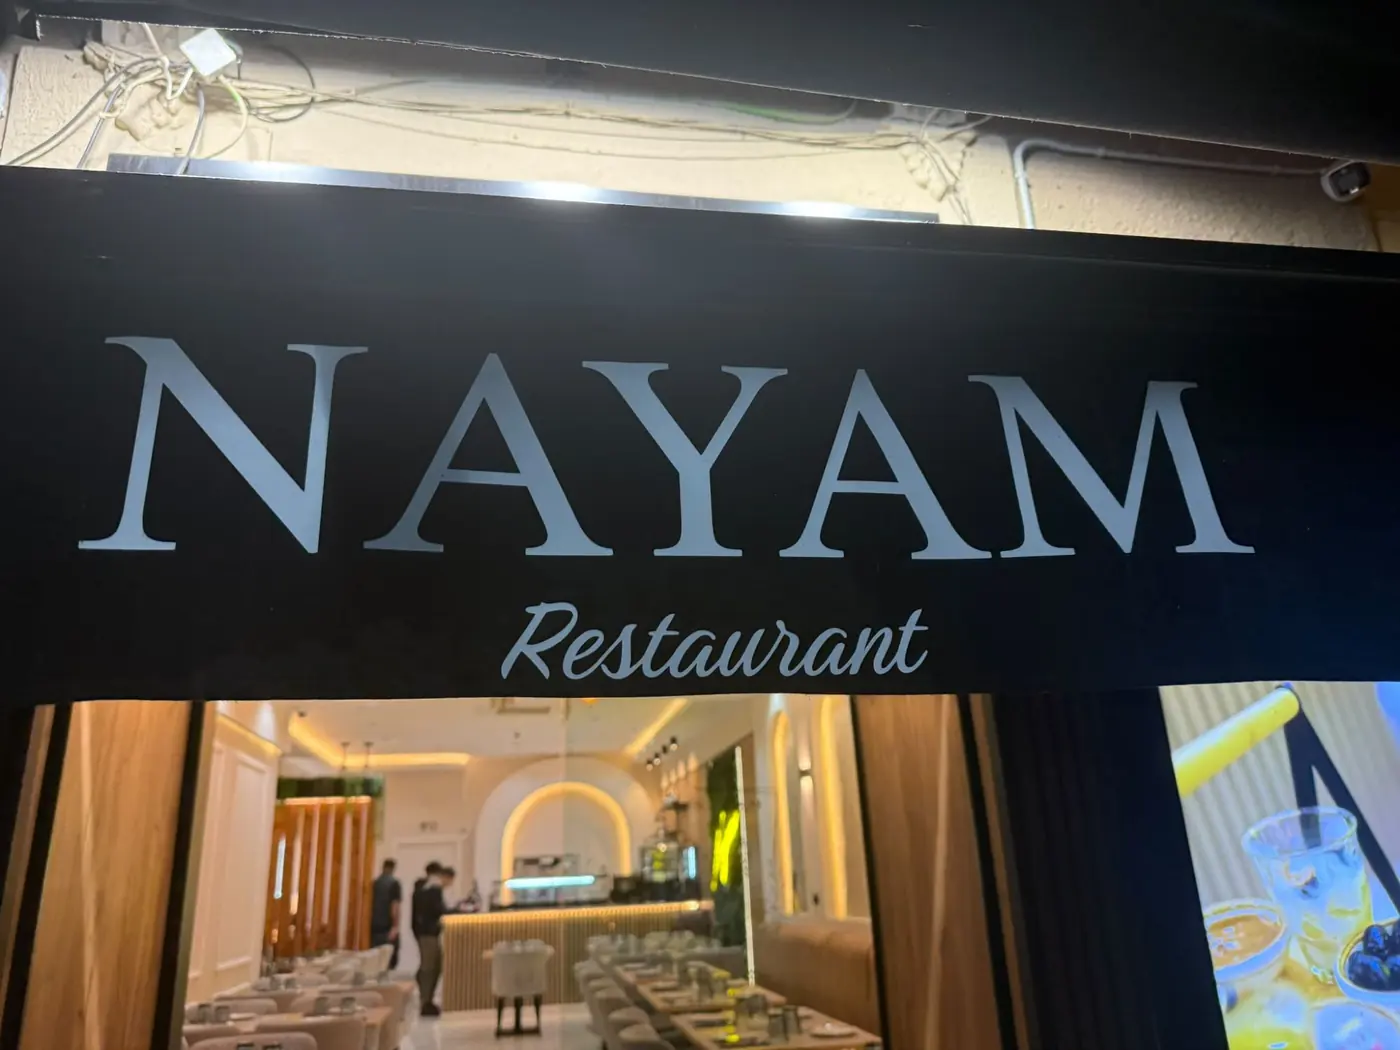
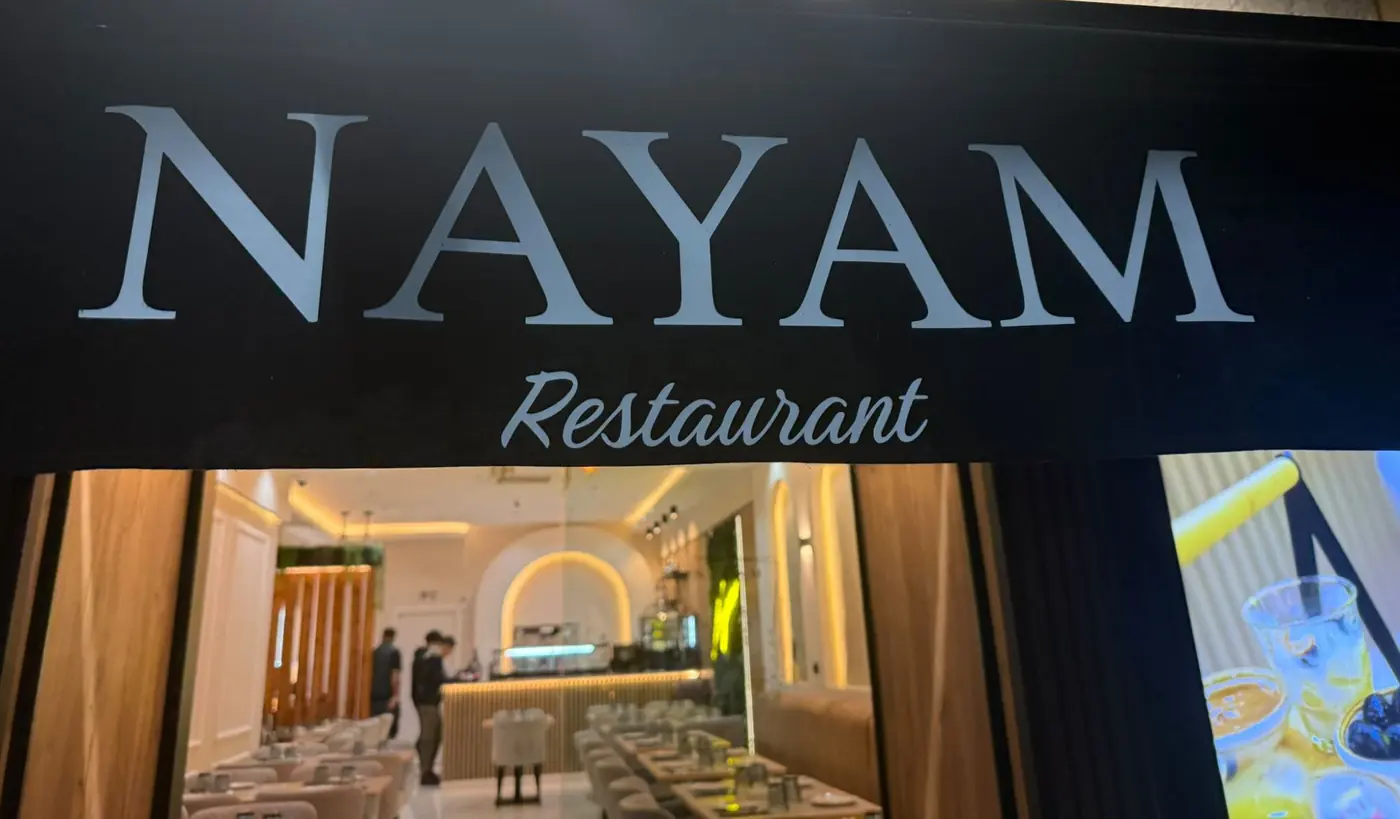
Quita el vídeo de la portada, recoloca la sección de vídeos y revisa las fotos propias
- Portada vuelve al pase de fotos
- Vídeos: clip grande a la izquierda y miniaturas, botón y nota a la derecha
- Foto de la fachada recortada (sin cables) y foto de la sala retirada
- Galería del local en mosaico

Claude-Session: https://claude.ai/code/session_017RZvcEEU2GJ9wD2SCQ5GfH

diff --git a/css/styles.css b/css/styles.css
@@ -168,9 +168,9 @@ svg.i{width:1.25em;height:1.25em;fill:none;stroke:currentColor;stroke-width:1.7;
 .room .wide{grid-column:1/-1;aspect-ratio:16/10}
 @media(min-width:900px){
   .about{grid-template-columns:1fr 1fr;align-items:end}
-  .room{grid-template-columns:repeat(4,1fr)}
-  .room figure{aspect-ratio:3/4}
-  .room .wide{grid-column:span 2;grid-row:span 1;aspect-ratio:auto}
+  .room{grid-template-columns:repeat(4,1fr);grid-auto-rows:260px}
+  .room figure{aspect-ratio:auto}
+  .room .wide{grid-column:span 2;grid-row:span 2;aspect-ratio:auto}
 }
 
 /* booking */
@@ -201,7 +201,7 @@ label.f{display:flex;flex-direction:column;gap:.35rem;font-size:.82rem;font-weig
 .hours th{text-align:left;font-weight:500;padding:.55rem 0;border-bottom:1px solid var(--line)}
 .hours td{text-align:right;padding:.55rem 0;border-bottom:1px solid var(--line);color:var(--muted)}
 .hours tr.today th,.hours tr.today td{color:var(--fg);font-weight:700}
-.facade{border-radius:16px;overflow:hidden;aspect-ratio:4/3}
+.facade{border-radius:16px;overflow:hidden;aspect-ratio:16/10}
 .facade img{width:100%;height:100%;object-fit:cover}
 .rowbtn{display:flex;flex-wrap:wrap;gap:.6rem}
 
@@ -233,11 +233,12 @@ footer small{color:var(--muted)}
 
 /* TikTok: vídeo grande reproduciéndose y miniaturas al lado */
 .ttwrap{display:grid;gap:1.1rem;grid-template-columns:1fr;justify-items:center}
-.ttmain{width:min(100%,340px);display:flex;flex-direction:column;gap:.7rem}
+.ttmain{width:min(100%,360px);display:flex;flex-direction:column;gap:.7rem}
 .ttframe{position:relative;aspect-ratio:9/16;border-radius:22px;overflow:hidden;background:#000;box-shadow:var(--shadow)}
 .ttframe video{position:absolute;inset:0;width:100%;height:100%;object-fit:cover;background:#000;cursor:pointer;display:block}
 .ttcap{margin:0;font-weight:700;line-height:1.3}
 .ttcap small{display:block;color:var(--muted);font-weight:400;margin-top:.15rem}
+.ttside{display:flex;flex-direction:column;gap:1rem;width:100%;min-width:0}
 .ttlist{display:flex;gap:.6rem;overflow-x:auto;scroll-snap-type:x proximity;padding-block:.2rem .6rem;width:100%;scrollbar-width:thin}
 .ttthumb{flex:none;width:92px;aspect-ratio:9/16;border-radius:14px;overflow:hidden;position:relative;padding:0;border:2px solid transparent;background:#000;scroll-snap-align:start;color:var(--hero-fg)}
 .ttthumb img{width:100%;height:100%;object-fit:cover;display:block;opacity:.8;transition:opacity .2s}
@@ -248,8 +249,9 @@ footer small{color:var(--muted)}
 .ttthumb[aria-current="true"] .ttico{display:none}
 .ttthumb .ttviews{position:absolute;left:0;right:0;bottom:0;padding:1rem .4rem .35rem;font-size:.7rem;font-weight:700;text-align:center;background:linear-gradient(transparent,rgba(0,0,0,.8))}
 @media(min-width:900px){
-  .ttwrap{grid-template-columns:340px 1fr;justify-items:stretch;align-items:start;gap:1.6rem}
-  .ttlist{display:grid;grid-template-columns:repeat(4,1fr);overflow:visible;gap:.8rem;align-content:start}
+  .ttwrap{grid-template-columns:min(360px,calc((100vh - 190px)*9/16)) 1fr;justify-items:stretch;align-items:start;gap:2rem}
+  .ttmain{width:100%}
+  .ttlist{display:grid;grid-template-columns:repeat(auto-fill,minmax(104px,1fr));overflow:visible;gap:.7rem;align-content:start;padding-block:0}
   .ttthumb{width:100%;cursor:pointer}
 }
 .tt-cta{margin-top:1.4rem}
@@ -307,20 +309,6 @@ footer .legal .credit b{color:var(--fg);font-weight:700}
 .ttbar i{display:block;height:100%;width:0;background:var(--accent)}
 .ttlink{font-size:.88rem;color:var(--accent-text);font-weight:700;text-decoration:none}
 .ttlink:hover{text-decoration:underline}
-
-/* portada con vídeo: de fondo en móvil, tarjeta vertical en ordenador */
-.heromedia{position:absolute;inset:0;z-index:-2;opacity:0;transition:opacity .9s ease;pointer-events:none}
-.heromedia.on{opacity:1}
-.heromedia video{position:absolute;inset:0;width:100%;height:100%;object-fit:cover;background:#000}
-.herop{position:absolute;right:max(16px,env(safe-area-inset-right,0px));bottom:84px;z-index:3;width:44px;height:44px;border-radius:50%;border:0;background:rgba(0,0,0,.55);color:#fff;display:grid;place-items:center;cursor:pointer;pointer-events:auto;-webkit-backdrop-filter:blur(6px);backdrop-filter:blur(6px)}
-.hero.vid::after{background:linear-gradient(180deg,rgba(11,16,12,.6) 0%,rgba(11,16,12,.55) 50%,rgba(11,16,12,.78) 88%,var(--bg) 100%)}
-@media(min-width:900px){
-  .heromedia{inset:auto;top:50%;right:max(16px,calc((100% - 1160px)/2 + 16px));width:var(--cw);aspect-ratio:9/16;transform:translateY(-50%);z-index:1;opacity:1;border-radius:28px;overflow:hidden;box-shadow:0 24px 60px rgba(0,0,0,.5);border:1px solid rgba(246,240,228,.2)}
-  .hero{--cw:clamp(240px,24vw,300px)}
-  .herop{right:calc(max(16px,(100% - 1160px)/2 + 16px) + 12px);bottom:auto;top:calc(50% + var(--cw)*8/9 - 56px)}
-  .hero .wrap{min-height:clamp(700px,88vh,840px);justify-content:center}
-  .hero.vid::after{background:linear-gradient(180deg,rgba(11,16,12,.55) 0%,rgba(11,16,12,.5) 50%,rgba(11,16,12,.72) 88%,var(--bg) 100%)}
-}
 
 /* franja de cifras */
 .stats{margin-top:-58px;position:relative;z-index:2}

diff --git a/js/i18n.js b/js/i18n.js
@@ -1,7 +1,7 @@
 /* Textos de la web en español (es) e inglés (en). */
 (function (w) {
 const T = {
- es:{heroPause:'Pausar vídeo de portada',heroPlay:'Reproducir vídeo de portada',gpEyebrow:'Desde Google',gpTitle:'Lo que suben nuestros clientes',gpLead:'Fotos reales de platos y del local, publicadas por quienes nos visitan.',gpAll:'Ver todas las fotos en Google',gpNote:'Fotos publicadas por clientes en Google Maps.',rights:'Todos los derechos reservados.',ttEyebrow:'En TikTok',ttTitle:'Mira lo que pasa en Nayam',ttLead:'Visitas, platos y detrás de cámaras, directo desde nuestro TikTok. Toca un vídeo para verlo en grande.',ttFollow:'Síguenos en TikTok',ttNote:'Los vídeos empiezan sin sonido: toca el altavoz para activarlo y el vídeo para pausarlo.',ttMute:'Silenciar',ttUnmute:'Activar sonido',ttPause:'Pausar',ttOpen:'Ver este vídeo en TikTok',ttPlay:'Ver vídeo',ttViews:'visualizaciones',
+ es:{gpEyebrow:'Desde Google',gpTitle:'Lo que suben nuestros clientes',gpLead:'Fotos reales de platos y del local, publicadas por quienes nos visitan.',gpAll:'Ver todas las fotos en Google',gpNote:'Fotos publicadas por clientes en Google Maps.',rights:'Todos los derechos reservados.',ttEyebrow:'En TikTok',ttTitle:'Mira lo que pasa en Nayam',ttLead:'Visitas, platos y detrás de cámaras, directo desde nuestro TikTok. Toca un vídeo para verlo en grande.',ttFollow:'Síguenos en TikTok',ttNote:'Los vídeos empiezan sin sonido: toca el altavoz para activarlo y el vídeo para pausarlo.',ttMute:'Silenciar',ttUnmute:'Activar sonido',ttPause:'Pausar',ttOpen:'Ver este vídeo en TikTok',ttPlay:'Ver vídeo',ttViews:'visualizaciones',
   nav:[['#carta','Carta'],['#tiktok','TikTok'],['#resenas','Reseñas'],['#local','El local'],['#reservas','Reservas'],['#contacto','Contacto']],
   book:'Reservar',bookLong:'Reservar por WhatsApp',seeMenu:'Ver la carta',
   h1:'El brunch que Poblenou estaba esperando',lead:'Desayunos de aquí y del mundo, brunch, comidas y cenas. Cocina casera, todo el día, en el corazón de Sant Martí.',rating:'4,8 en Google',
@@ -22,7 +22,7 @@ const T = {
   altHero:'Comedor de Nayam con banqueta caramelo, mesas puestas y neón al fondo',altBreak:'Desayuno especial para dos en Nayam',altDish:'Plato de carne gourmet en Nayam',altCafe:'Interior del restaurante Nayam',
   altSala:'Sala de Nayam con mesas de madera y butacas de terciopelo',altArcos:'Nichos en arco con luz cálida y planta tropical',altAmb:'Ambiente acogedor en Nayam',altNeon:'Neón de Nayam sobre muro vegetal',altInt:'Banqueta y mesas largas en Nayam',altPizza:'Pizza cuatro quesos',altFacade:'Fachada de Nayam Restaurante de noche',
   close:'Cerrar'},
- en:{heroPause:'Pause cover video',heroPlay:'Play cover video',gpEyebrow:'From Google',gpTitle:'What our guests share',gpLead:'Real photos of dishes and the room, posted by the people who visit us.',gpAll:'See all photos on Google',gpNote:'Photos posted by guests on Google Maps.',rights:'All rights reserved.',ttEyebrow:'On TikTok',ttTitle:'See what happens at Nayam',ttLead:'Visits, dishes and behind the scenes, straight from our TikTok. Tap a video to watch it big.',ttFollow:'Follow us on TikTok',ttNote:'Videos start muted: tap the speaker for sound and the video to pause it.',ttMute:'Mute',ttUnmute:'Turn sound on',ttPause:'Pause',ttOpen:'Watch this video on TikTok',ttPlay:'Play video',ttViews:'views',
+ en:{gpEyebrow:'From Google',gpTitle:'What our guests share',gpLead:'Real photos of dishes and the room, posted by the people who visit us.',gpAll:'See all photos on Google',gpNote:'Photos posted by guests on Google Maps.',rights:'All rights reserved.',ttEyebrow:'On TikTok',ttTitle:'See what happens at Nayam',ttLead:'Visits, dishes and behind the scenes, straight from our TikTok. Tap a video to watch it big.',ttFollow:'Follow us on TikTok',ttNote:'Videos start muted: tap the speaker for sound and the video to pause it.',ttMute:'Mute',ttUnmute:'Turn sound on',ttPause:'Pause',ttOpen:'Watch this video on TikTok',ttPlay:'Play video',ttViews:'views',
   nav:[['#carta','Menu'],['#tiktok','TikTok'],['#resenas','Reviews'],['#local','The room'],['#reservas','Booking'],['#contacto','Contact']],
   book:'Book',bookLong:'Book on WhatsApp',seeMenu:'See the menu',
   h1:'The brunch Poblenou was waiting for',lead:'Breakfast from here and around the world, brunch, lunch and dinner. Homemade food, all day long, in the heart of Sant Martí.',rating:'4.8 on Google',

diff --git a/index.html b/index.html
@@ -69,13 +69,8 @@
     <div class="slides" id="slides" aria-hidden="true">
       <img class="on" src="assets/img/local-banqueta-l.webp" alt="" fetchpriority="high">
       <img src="assets/img/local-neon-l.webp" alt="" loading="lazy">
-      <img src="assets/img/local-sala-l.webp" alt="" loading="lazy">
       <img src="assets/img/local-arcos-l.webp" alt="" loading="lazy">
     </div>
-    <div class="heromedia" id="heromedia">
-      <video id="heroVideo" muted loop playsinline preload="none" poster="assets/img/tiktok-7681001677809405206.webp" aria-hidden="true" tabindex="-1"><source src="assets/video/7681001677809405206.mp4" type="video/mp4"></video>
-    </div>
-    <button type="button" class="herop" id="heroPause" aria-pressed="false"><svg class="i" viewBox="0 0 24 24" aria-hidden="true"><path id="heroPauseIcon" d="M8 5v14M16 5v14"/></svg></button>
     <div class="wrap">
       <p class="neon" aria-hidden="true">Nayam</p>
       <h1 data-i18n="h1"></h1>
@@ -118,12 +113,14 @@
           <p class="ttcap" id="ttcap"></p>
           <a class="ttlink" id="ttlink" href="https://www.tiktok.com/@nayambarcelona" target="_blank" rel="noopener noreferrer" data-i18n="ttOpen"></a>
         </div>
-        <div class="ttlist" id="tt" role="list"></div>
+        <div class="ttside">
+          <div class="ttlist" id="tt" role="list"></div>
+          <div class="rowbtn tt-cta">
+            <a class="btn solid" href="https://www.tiktok.com/@nayambarcelona" target="_blank" rel="noopener noreferrer"><svg class="i" viewBox="0 0 24 24" aria-hidden="true"><path d="M14 4v10.5a3.5 3.5 0 1 1-3.5-3.5M14 4c.4 2.4 2 4 4.5 4.2"/></svg><span data-i18n="ttFollow"></span></a>
+          </div>
+          <p class="hint tt-note" data-i18n="ttNote"></p>
+        </div>
       </div>
-      <div class="rowbtn tt-cta">
-        <a class="btn solid" href="https://www.tiktok.com/@nayambarcelona" target="_blank" rel="noopener noreferrer"><svg class="i" viewBox="0 0 24 24" aria-hidden="true"><path d="M14 4v10.5a3.5 3.5 0 1 1-3.5-3.5M14 4c.4 2.4 2 4 4.5 4.2"/></svg><span data-i18n="ttFollow"></span></a>
-      </div>
-      <p class="hint tt-note" data-i18n="ttNote"></p>
     </div>
   </section>
 
@@ -136,7 +133,7 @@
 
   <section id="carta" class="carta">
     <div class="menubanner">
-      <img src="assets/img/local-sala-l.webp" alt="">
+      <img src="assets/img/local-banqueta-l.webp" alt="">
       <div class="wrap"><span class="eyebrow" data-i18n="menuEyebrow"></span><h2 data-i18n="menuTitle"></h2><p data-i18n="menuLead"></p></div>
     </div>
     <div class="wrap">
@@ -180,7 +177,7 @@
         <p data-i18n="roomText"></p>
       </div>
       <div class="room">
-        <figure class="wide"><img src="assets/img/local-sala-l.webp" alt="" data-alt="altSala"></figure>
+        <figure class="wide"><img src="assets/img/local-banqueta-l.webp" alt="" data-alt="altSala"></figure>
         <figure><img src="assets/img/local-arcos-l.webp" alt="" data-alt="altArcos"></figure>
         <figure><img src="assets/img/nayam-ambiente-restaurante-l.webp" alt="" data-alt="altAmb"></figure>
         <figure><img src="assets/img/local-neon-l.webp" alt="" data-alt="altNeon"></figure>

diff --git a/js/main.js b/js/main.js
@@ -171,23 +171,6 @@ if('IntersectionObserver' in window){
   sio.observe($('#stats'));
 }
 
-/* Portada: el clip del local se reproduce en bucle y sin sonido (con botón de pausa) */
-(function(){
-  const v = $('#heroVideo'), media = $('#heromedia'), hero = $('.hero'), btn = $('#heroPause');
-  let userPaused = false;
-  const icon = () => { $('#heroPauseIcon').setAttribute('d', v.paused ? 'M8 5v14l11-7z' : 'M8 5v14M16 5v14'); btn.setAttribute('aria-pressed', String(v.paused)); btn.setAttribute('aria-label', v.paused ? t('heroPlay') : t('heroPause')); };
-  v.addEventListener('playing',()=>{ media.classList.add('on'); hero.classList.add('vid'); icon(); });
-  v.addEventListener('pause',icon);
-  btn.addEventListener('click',()=>{ if(v.paused){ userPaused=false; v.play().catch(()=>{}); } else { userPaused=true; v.pause(); } });
-  const saver = navigator.connection && navigator.connection.saveData;
-  const start = ()=>{ if(!calmMotion && !saver && !userPaused) v.play().catch(()=>{}); };
-  if(document.readyState==='complete') setTimeout(start,300); else window.addEventListener('load',()=>setTimeout(start,300));
-  if('IntersectionObserver' in window){
-    new IntersectionObserver(es=>es.forEach(en=>{ if(en.isIntersecting){ if(v.readyState>0) start(); } else if(!v.paused){ v.pause(); } }),{threshold:.15}).observe(hero);
-  }
-  icon();
-})();
-
 /* Fotos de clientes de Google: cinta que se desplaza sola (se repite para el bucle) */
 function renderGP(){
   const l = L_();

diff --git a/README.md b/README.md
@@ -75,10 +75,9 @@ En **Settings → Pages → Custom domain** escribe el dominio y activa **Enforc
 
 El clip grande se reproduce solo y sin sonido al llegar a esa sección, pasa al siguiente al terminar y se pausa al salir de pantalla. Con «reducir movimiento» activado no arranca solo.
 
-## Vídeo de la portada y cifras
+## Cifras bajo la portada
 
-- **Portada:** en móvil el clip de fondo ocupa toda la portada y en ordenador sale como tarjeta vertical a la derecha. Es el clip `assets/video/7681001677809405206.mp4`; para cambiarlo, edita el `<video id="heroVideo">` de `index.html`. Empieza al cargar la página, va sin sonido, se repite, tiene botón de pausa y no arranca si el visitante tiene activado «reducir movimiento» o «ahorro de datos».
-- **Cifras bajo la portada:** se editan en `js/data.js` (`STATS`). Vienen de Google Maps y TikTok a fecha de la última revisión, así que actualízalas de vez en cuando.
+Se editan en `js/data.js` (`STATS`). Vienen de Google Maps y TikTok a fecha de la última revisión, así que actualízalas de vez en cuando.
 
 ## Seguridad
 
